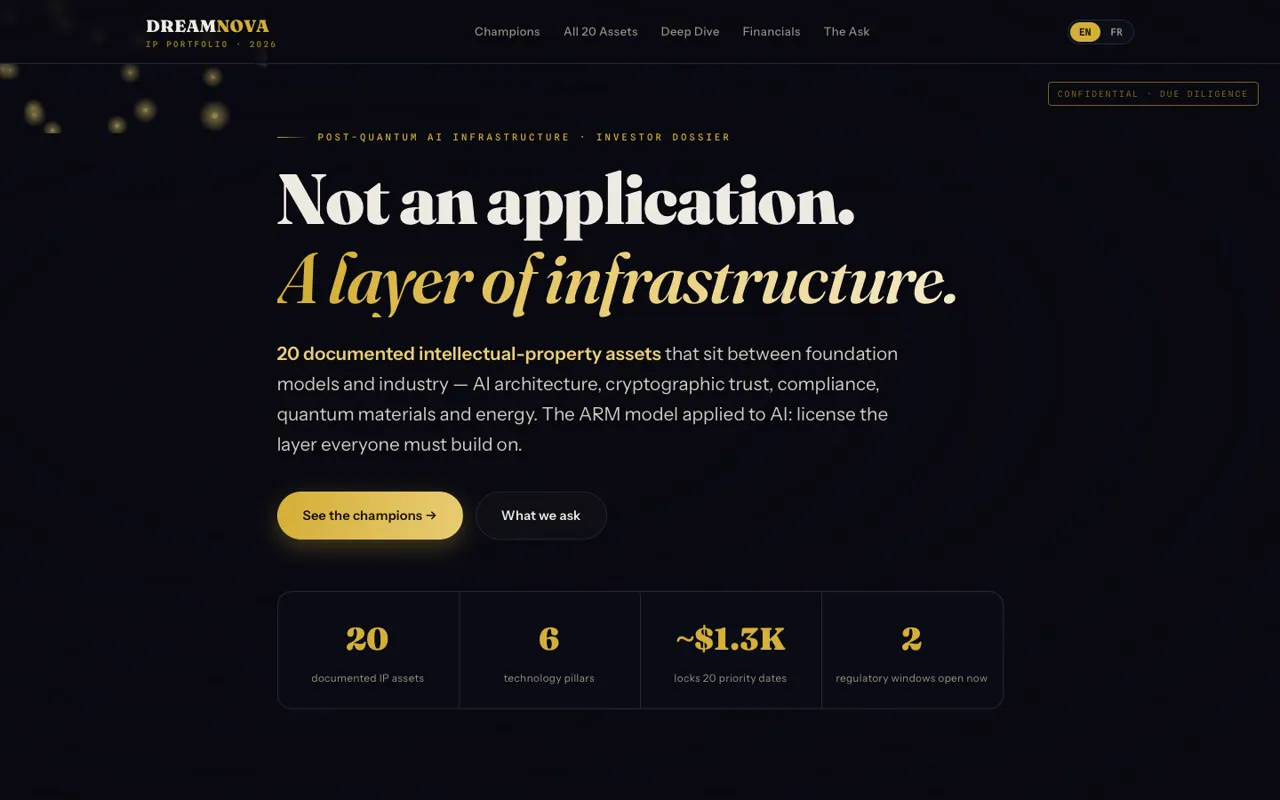
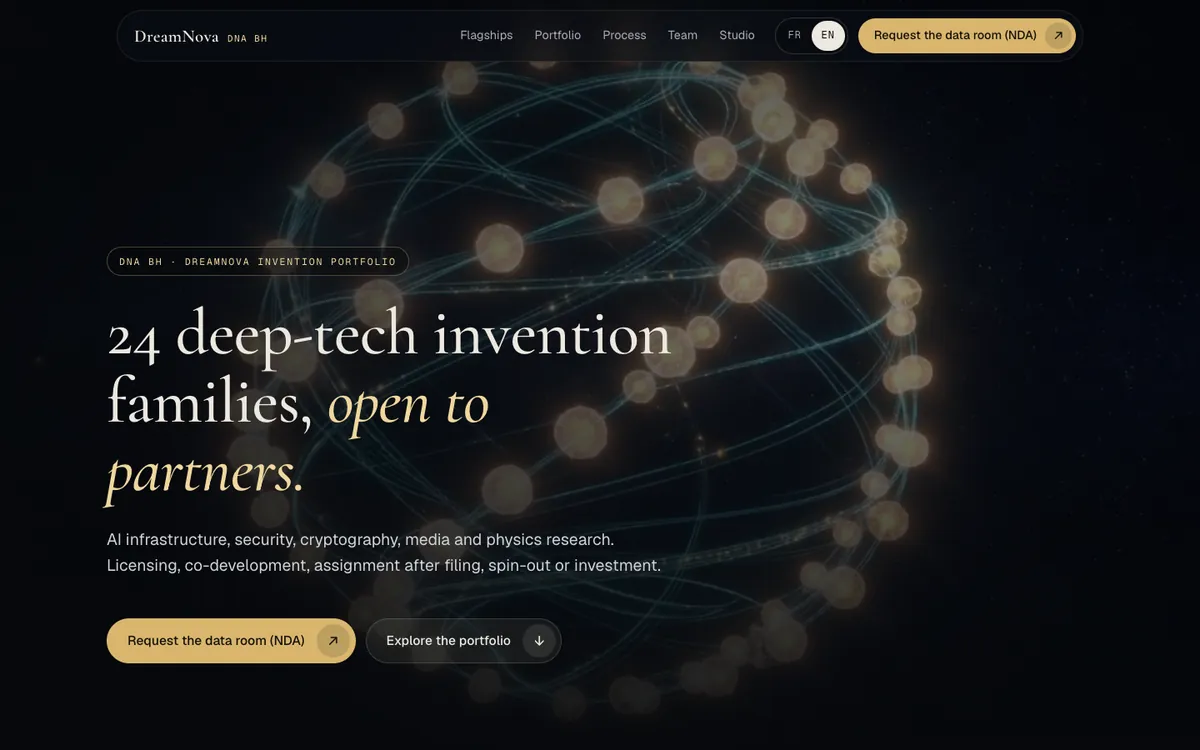
feat(réalisations): 19 fiches classées par impact, résultats prouvés, filtre par service, vignettes 600/1200 webp, 4 nouvelles captures, bouton WhatsApp de section

diff --git a/content.js b/content.js
@@ -100,14 +100,14 @@ DRIVE_I: {
  fr:{eyebrow:"DreamNova · Édition course",l1:"Prenez",l2:"le volant.",sub:"Entrez dans le cockpit. Chaque bouton, chaque écran, chaque rapport mène à l'un de nos services.",hint:"Faites défiler pour entrer",tap:"Entrer"}
 },
 SVC: [
- {id:"film",hot:"paddle_left",w:["media"],films:["cinema_pipeline_01","animation_pipeline_02","subtitled_pipeline_03","bijoux_pipeline_04","adcreative_pipeline_05"],o:[6,10],v:"rooms_v2/room_02_cinema.mp4",part:{he:"מנוף העברה שמאלי",en:"Left paddle",fr:"Palette gauche"}},
- {id:"web",hot:"screen",w:["lumen","artisans","site3d","joaillerie"],o:[0,1,3],v:"rooms_v2/room_03_web.mp4",part:{he:"מסך מרכזי",en:"Center screen",fr:"Écran central"}},
- {id:"crm",hot:"selector",w:["devis","leadmachine","facturation"],o:[13,9],v:"car/cockpit.mp4",part:{he:"ידית ההילוכים",en:"Gear selector",fr:"Levier de vitesse"}},
+ {id:"film",hot:"paddle_left",w:["memorial","joaillerie"],films:["cinema_pipeline_01","animation_pipeline_02","subtitled_pipeline_03","bijoux_pipeline_04","adcreative_pipeline_05"],o:[6,10],v:"rooms_v2/room_02_cinema.mp4",part:{he:"מנוף העברה שמאלי",en:"Left paddle",fr:"Palette gauche"}},
+ {id:"web",hot:"screen",w:["site3d","lumen","artisans","cahiers","joaillerie","editions"],o:[0,1,3],v:"rooms_v2/room_03_web.mp4",part:{he:"מסך מרכזי",en:"Center screen",fr:"Écran central"}},
+ {id:"crm",hot:"selector",w:["leadmachine","facturation","stockvox"],o:[13,9],v:"car/cockpit.mp4",part:{he:"ידית ההילוכים",en:"Gear selector",fr:"Levier de vitesse"}},
  {id:"agents",hot:"wheel",w:["voiceava","stockvox","leadmachine","pinkas"],o:[5,7],v:"rooms_v2/room_04_agents.mp4",part:{he:"הגה",en:"Steering wheel",fr:"Volant"}},
- {id:"marketing",hot:"cluster",w:["media","academy"],o:[14,11,12],v:"rooms_v2/room_06_marketing.mp4",part:{he:"לוח המחוונים",en:"Dashboard gauges",fr:"Compteurs"}},
- {id:"private",hot:"ambient",w:["onprem","pilote","pinkas","mehadrin"],o:[4,8],v:"rooms_v2/room_05_vault.mp4",part:{he:"לוח המכשירים",en:"Dashboard",fr:"Planche de bord"}},
- {id:"3d",hot:"paddle_right",w:["site3d","dreamai","rd"],o:[2],v:"rooms_v2/room_07_gallery.mp4",part:{he:"מנוף העברה ימני",en:"Right paddle",fr:"Palette droite"}},
- {id:"consult",hot:"start",w:["nekuda","auditprivee","auditflash","diagnostic","academy","consult"],o:[16,17,15],v:"rooms_v2/room_01_hero.mp4",part:{he:"כפתור ההתנעה",en:"Start button",fr:"Bouton start"}}
+ {id:"marketing",hot:"cluster",w:["reseau","leadmachine","voiceava"],o:[14,11,12],v:"rooms_v2/room_06_marketing.mp4",part:{he:"לוח המחוונים",en:"Dashboard gauges",fr:"Compteurs"}},
+ {id:"private",hot:"ambient",w:["onprem","pilote","pinkas","mehadrin","rd"],o:[4,8],v:"rooms_v2/room_05_vault.mp4",part:{he:"לוח המכשירים",en:"Dashboard",fr:"Planche de bord"}},
+ {id:"3d",hot:"paddle_right",w:["site3d","cahiers","rd"],o:[2],v:"rooms_v2/room_07_gallery.mp4",part:{he:"מנוף העברה ימני",en:"Right paddle",fr:"Palette droite"}},
+ {id:"consult",hot:"start",w:["diagnostic","auditprivee","facturation"],o:[16,17,15],v:"rooms_v2/room_01_hero.mp4",part:{he:"כפתור ההתנעה",en:"Start button",fr:"Bouton start"}}
 ],
 SVC_I: {
  he:{back:"חזרה לתא הנהג",works:"עבודות קשורות",offers:"הצעות",next:"ההילוך הבא",cta:"לדבר על הפרויקט",spec:"מפרט"},
@@ -167,33 +167,27 @@ REEL: [
  {p:"site3d"}
 ],
 
-/* u:null = pas de lien public (nom du client dans l'adresse) ; only:"he" = carte hébreu seulement */
+/* u:null = pas de lien public (nom du client dans l'adresse) ; only:"he" = carte hébreu seulement ; r = résultat prouvé ; ordre = impact (phase B 20/10) */
 WORKS: [
+ {id:"site3d",c:"web",u:"https://dreamnova-3d-{l}.vercel.app",s:{he:"WebGL",en:"WebGL",fr:"WebGL"},t:{he:"אתר תלת־ממד סוחף",en:"Immersive 3D Site",fr:"Site Immersif 3D"},r:{he:"3 שפות · 3 אתרים חיים",en:"3 languages, 3 live sites — WebGL in the browser",fr:"3 langues, 3 sites en ligne — WebGL dans le navigateur"}},
+ {id:"voiceava",c:"ai",u:"https://dreamnova-voice-demo.vercel.app",s:{he:"סוכן קולי 24/7",en:"Voice agent 24/7",fr:"Agent vocal 24/7"},t:{he:"Ava — פקידת קבלה AI",en:"Ava — AI Receptionist",fr:"Ava — Réceptionniste IA"},r:{he:"דמו חי — מדברים איתה מהדפדפן",en:"Live demo — talk to it from your browser",fr:"Démo en direct — parlez-lui depuis le navigateur"}},
+ {id:"memorial",c:"video",demo:"en",u:"https://dreamnova-memorial-films.vercel.app",s:{he:"סרט AI",en:"AI film",fr:"Film IA"},t:{he:"סרטי זיכרון AI — פנים אמיתיות",en:"AI Memorial Films — Real Faces, Verified",fr:"Films mémoriels IA — visages vérifiés"},r:{he:"סרט ביוגרפי של 60 דקות · 240 שוטים נבדקו אחד־אחד",en:"60-minute biographical film — 240/240 shots checked one by one",fr:"Film biographique de 60 min — 240/240 plans vérifiés un par un"}},
  {id:"joaillerie",c:"web",u:null,s:{he:"מסחר אלקטרוני",en:"E‑commerce",fr:"E‑commerce"},t:{he:"מותג — תכשיטי יוקרה",en:"Maison — Fine Jewelry",fr:"Maison — Haute Joaillerie"}},
- {id:"voiceava",c:"ai",u:"https://dreamnova-voice-demo.vercel.app",s:{he:"סוכן קולי 24/7",en:"Voice agent 24/7",fr:"Agent vocal 24/7"},t:{he:"Ava — פקידת קבלה AI",en:"Ava — AI Receptionist",fr:"Ava — Réceptionniste IA"}},
- {id:"editions",c:"web",u:null,only:"he",s:{he:"הוצאה לאור",en:"",fr:""},t:{he:"חנות ספרים — מהדורה חדשה",en:"",fr:""}},
  {id:"onprem",c:"deep",u:"https://dreamnova-onprem.vercel.app",s:{he:"דיפ־טק פרטי",en:"Private deep-tech",fr:"Deep-tech privé"},t:{he:"AI פרטי On-Premise",en:"Private On-Premise AI",fr:"IA Privée On-Premise"}},
  {id:"pilote",c:"ai",demo:"fr",u:"https://dreamnova-pilote.vercel.app",s:{he:"RAG פרטי",en:"Private RAG",fr:"RAG privé"},t:{he:"פיילוט AI — משרדים",en:"AI Pilot — Firms",fr:"Pilote IA — Cabinets"}},
- {id:"auditariel",c:"audit",u:null,s:{he:"תיק לקוח אמיתי",en:"Real client dossier",fr:"Dossier client réel"},t:{he:"אודיט AI ותאימות AI Act",en:"AI Act Compliance Audit",fr:"Audit IA & Conformité AI Act"}},
- {id:"auditprivee",c:"audit",demo:"fr",u:"https://audit-ia-privee.vercel.app",s:{he:"אודיט",en:"Audit",fr:"Audit"},t:{he:"אודיט AI פרטי וריבוני",en:"Private & Sovereign AI Audit",fr:"Audit IA Privée & Souveraine"}},
- {id:"auditflash",c:"audit",demo:"fr",u:"https://audit-flash-ia-beige.vercel.app",s:{he:"אודיט",en:"Audit",fr:"Audit"},t:{he:"אודיט בזק — AI Act",en:"Flash Audit — AI Act",fr:"Audit Flash — AI Act"}},
- {id:"facturation",c:"audit",demo:"fr",u:"https://dreamnova-facturation.vercel.app",s:{he:"אודיט תאימות",en:"Compliance audit",fr:"Audit conformité"},t:{he:"מוכנות לחשבונית דיגיטלית 2026",en:"E-Invoicing Readiness 2026",fr:"Facturation Électronique 2026"}},
- {id:"diagnostic",c:"audit",u:"https://diagnostic-ia-israel.vercel.app",s:{he:"אודיט",en:"Audit",fr:"Audit"},t:{he:"אבחון AI — ישראל",en:"AI Diagnostic — Israel",fr:"Diagnostic IA — Israël"}},
+ {id:"rd",c:"deep",u:"https://dreamnova-brevets.vercel.app",s:{he:"דיפ־טק",en:"Deep-tech",fr:"Deep-tech"},t:{he:"מו״פ — תיק IP",en:"R&D — IP Dossier",fr:"R&D — Dossier IP"},r:{he:"24 משפחות המצאות · תקציר לא חסוי",en:"24 invention families — non-confidential summary",fr:"24 familles d'inventions — résumé non confidentiel"}},
+ {id:"artisans",c:"web",demo:"fr",u:"https://demos-artisans.vercel.app",s:{he:"גנרטור",en:"Generator",fr:"Générateur"},t:{he:"מפעל אתרים — בעלי מקצוע",en:"Site Factory — Trades",fr:"Usine à Sites — Métiers"},r:{he:"20 אתרים לבעלי מקצוע",en:"20 trade websites generated",fr:"20 sites de métiers générés"}},
  {id:"stockvox",c:"ai",u:"https://stockvox.vercel.app",s:{he:"סוכן קולי",en:"Voice agent",fr:"Agent vocal"},t:{he:"Stockvox — המלאי שמדבר",en:"Stockvox — Inventory That Talks",fr:"Stockvox — L'inventaire qui se parle"}},
- {id:"devis",c:"web",u:"https://dreamnova-devis.vercel.app",s:{he:"מוצר ווב",en:"Web product",fr:"Produit web"},t:{he:"SaaS — הצעת מחיר מדויקת",en:"SaaS — Exact Quotes",fr:"SaaS — Devis Exact"}},
  {id:"leadmachine",c:"ai",u:"https://leadmachine-site.vercel.app",s:{he:"צמיחה B2B",en:"B2B growth",fr:"Growth B2B"},t:{he:"מכונת פרוספקטינג פרטית",en:"Private Prospecting Machine",fr:"Machine de Prospection Privée"}},
  {id:"pinkas",c:"ai",u:"https://pinkas-ai.vercel.app",s:{he:"מוצר local-first",en:"Local-first product",fr:"Produit local-first"},t:{he:"פנקס — זיכרון וואטסאפ",en:"Pinkas — WhatsApp Memory",fr:"Pinkas — Mémoire WhatsApp"}},
- {id:"dreamai",c:"deep",u:"https://dreamai-mvp.vercel.app",s:{he:"דיפ־טק · פטנט",en:"Deep-tech · patent",fr:"Deep-tech · brevet"},t:{he:"DreamAI — מו״פ מוצר",en:"DreamAI — Product R&D",fr:"DreamAI — R&D Produit"}},
- {id:"mehadrin",c:"ai",u:"https://mehadrin-ai.vercel.app",only:"he",s:{he:"מוצר",en:"",fr:""},t:{he:"MEHADRIN AI — הבינה הכשרה",en:"",fr:""}},
+ {id:"cahiers",c:"web",u:null,s:{he:"הדמיה · תלת־ממד",en:"Concept · 3D showroom",fr:"Maquette · salon 3D"},t:{he:"מגזין מקצועי — אולם תצוגה תלת־ממדי",en:"Trade Magazine — Virtual 3D Showroom",fr:"Revue professionnelle — Salon virtuel 3D"}},
+ {id:"reseau",c:"ai",demo:"he",u:"https://reseau-contenu-demo.vercel.app",s:{he:"אב־טיפוס חי",en:"Live prototype",fr:"Prototype en ligne"},t:{he:"הפיד החכם שלך",en:"Smart Content Network",fr:"Réseau de contenu intelligent"}},
  {id:"lumen",c:"web",demo:"fr",u:"https://maison-lumen-demo.vercel.app",s:{he:"איקומרס",en:"E‑commerce demo",fr:"E‑commerce démo"},t:{he:"Maison Lumen — חנות דמו",en:"Maison Lumen — Store",fr:"Maison Lumen — Boutique"}},
- {id:"academy",c:"audit",u:"https://dreamnova-academy.vercel.app",s:{he:"הדרכה",en:"Education",fr:"Formation"},t:{he:"אקדמיית AI",en:"AI Academy",fr:"Academy IA"}},
- {id:"media",c:"video",u:null,s:{he:"תיק וידאו",en:"Video portfolio",fr:"Portfolio vidéo"},t:{he:"מותג — ספריית מדיה",en:"Maison — Media Library",fr:"Maison — Médiathèque"}},
- {id:"artisans",c:"web",demo:"fr",u:"https://demos-artisans.vercel.app",s:{he:"גנרטור",en:"Generator",fr:"Générateur"},t:{he:"מפעל אתרים — בעלי מקצוע",en:"Site Factory — Trades",fr:"Usine à Sites — Métiers"}},
- {id:"consult",c:"audit",u:"https://dreamnova-consult-prod.vercel.app",s:{he:"ייעוץ",en:"Consulting",fr:"Conseil"},t:{he:"סוכנות AI — השיטה",en:"AI Agency — The Method",fr:"Agence IA — La Méthode"}},
- {id:"edtech",c:"web",u:null,s:{he:"משחק חינוכי",en:"Educational game",fr:"Jeu éducatif"},t:{he:"EdTech — משחק לוגיקה",en:"EdTech — Logic Game",fr:"EdTech — Jeu Logique"}},
- {id:"site3d",c:"web",u:"https://dreamnova-3d-{l}.vercel.app",s:{he:"WebGL",en:"WebGL",fr:"WebGL"},t:{he:"אתר תלת־ממד סוחף",en:"Immersive 3D Site",fr:"Site Immersif 3D"}},
- {id:"nekuda",c:"web",u:null,s:{he:"קורס דיגיטלי",en:"Online course",fr:"Cours en ligne"},t:{he:"אקדמיה אונליין — קורס בעברית עם סרט",en:"Online Academy — Hebrew course with film",fr:"Académie en ligne — cours en hébreu avec film"}},
- {id:"rd",c:"deep",u:"https://dreamnova-inventions-investisseurs.vercel.app",s:{he:"דיפ־טק",en:"Deep-tech",fr:"Deep-tech"},t:{he:"מו״פ — תיק IP",en:"R&D — IP Dossier",fr:"R&D — Dossier IP"}}
+ {id:"diagnostic",c:"audit",u:"https://diagnostic-ia-israel.vercel.app",s:{he:"אודיט",en:"Audit",fr:"Audit"},t:{he:"אבחון AI — ישראל",en:"AI Diagnostic — Israel",fr:"Diagnostic IA — Israël"}},
+ {id:"facturation",c:"audit",demo:"fr",u:"https://dreamnova-facturation.vercel.app",s:{he:"אודיט תאימות",en:"Compliance audit",fr:"Audit conformité"},t:{he:"מוכנות לחשבונית דיגיטלית 2026",en:"E-Invoicing Readiness 2026",fr:"Facturation Électronique 2026"}},
+ {id:"auditprivee",c:"audit",demo:"fr",u:"https://audit-ia-privee.vercel.app",s:{he:"אודיט",en:"Audit",fr:"Audit"},t:{he:"אודיט AI פרטי וריבוני",en:"Private & Sovereign AI Audit",fr:"Audit IA Privée & Souveraine"}},
+ {id:"editions",c:"web",u:null,only:"he",s:{he:"הוצאה לאור",en:"",fr:""},t:{he:"חנות ספרים — מהדורה חדשה",en:"",fr:""}},
+ {id:"mehadrin",c:"ai",u:"https://mehadrin-ai.vercel.app",only:"he",s:{he:"מוצר",en:"",fr:""},t:{he:"MEHADRIN AI — הבינה הכשרה",en:"",fr:""}}
 ],
 
 FILTERS: {

diff --git a/app.js b/app.js
@@ -30,11 +30,12 @@ const stack = D.STACK.map(s => `<span>${s}</span>`).join("");
 $("[data-marquee]").innerHTML = stack + stack;
 
 /* ---------- reel ---------- */
-const HE_FIRST = ["consult", "pinkas", "mehadrin", "editions", "diagnostic", "voiceava", "site3d"];
+const HE_FIRST = ["site3d", "voiceava", "editions", "mehadrin", "diagnostic", "pinkas", "reseau"];
 const works = D.WORKS.filter(w => !w.only || w.only === L).sort((a, b) => L !== "he" ? 0 : (HE_FIRST.indexOf(b.id) > -1) - (HE_FIRST.indexOf(a.id) > -1));
 const byId = Object.fromEntries(works.map(w => [w.id, w]));
 const url = w => w.u && w.u.replace("{l}", L);
-const gal = w => `${BASE}assets/work/gal_${w.id}${w.id === "site3d" ? "_" + L : ""}.webp`; // vignette dans la langue de la page
+const gal = (w, sm) => `${BASE}assets/work/gal_${w.id}${w.id === "site3d" ? "_" + L : ""}${sm ? "_s" : ""}.webp`; // vignette dans la langue de la page (sm = 600 px)
+const svcOf = w => D.SVC.filter(s => s.w.includes(w.id)).map(s => s.id).join(" ");
 let n = 0;
 const reelCards = D.REEL.map(r => {
   if (r.v) {
@@ -88,9 +89,9 @@ const flo = document.createElement("div"); flo.className = "pj__float"; flo.inne
 addEventListener("pointermove", e => { flo.style.left = e.clientX + "px"; flo.style.top = e.clientY + "px"; }, { passive: true });
 $("[data-index]").innerHTML = works.map(w => {
   const u = url(w);
-  return `<${u ? "a" : "div"} class="pj ${u ? "" : "pj--private"}" data-c="${w.c}" ${u ? `href="${u}" target="_blank" rel="noopener"` : ""}>
-    <img class="pj__img" src="${gal(w)}" alt="${esc(w.t[L])}" loading="lazy" decoding="async">
-    <div class="pj__b"><div><div class="pj__s">${esc(w.s[L])}${w.demo && w.demo !== L ? ` <span class="pj__lang">${w.demo.toUpperCase()}</span>` : ""}</div><div class="pj__t">${esc(w.t[L])}</div></div><span class="pj__a">${esc(u ? T["work.visit"].replace("↗", ARROW) : T["work.private"])}</span></div></${u ? "a" : "div"}>`;
+  return `<${u ? "a" : "div"} class="pj ${u ? "" : "pj--private"}" data-sv="${svcOf(w)}" ${u ? `href="${u}" target="_blank" rel="noopener"` : ""}>
+    <img class="pj__img" src="${gal(w)}" srcset="${gal(w, 1)} 600w, ${gal(w)} 1200w" sizes="(max-width: 767px) 120px, 340px" width="1200" height="750" alt="${esc(w.t[L])}" loading="lazy" decoding="async">
+    <div class="pj__b"><div><div class="pj__s">${esc(w.s[L])}${w.demo && w.demo !== L ? ` <span class="pj__lang">${w.demo.toUpperCase()}</span>` : ""}</div><div class="pj__t">${esc(w.t[L])}</div>${w.r ? `<div class="pj__r">${esc(w.r[L])}</div>` : ""}</div><span class="pj__a">${esc(u ? T["work.visit"].replace("↗", ARROW) : T["work.private"])}</span></div></${u ? "a" : "div"}>`;
 }).join("");
 $("[data-index]").addEventListener("pointerover", e => { const p = e.target.closest(".pj"); if (!p) return flo.classList.remove("is-on"); flo.querySelector("img").src = p.querySelector(".pj__img").src; flo.classList.toggle("is-fr", !!p.querySelector(".pj__lang")); flo.classList.add("is-on"); });
 $("[data-index]").addEventListener("pointerleave", () => flo.classList.remove("is-on"));
@@ -98,11 +99,17 @@ $("[data-index]").addEventListener("pointerleave", () => flo.classList.remove("i
     const b = document.createElement("button"); b.type = "button"; b.className = "btn btn--glass index__more"; b.innerHTML = `<span>${esc({ he: "לכל העבודות", en: "See all work", fr: "Tout voir" }[L])} (${rows.length})</span><span class="btn__ico">+</span>`;
     b.onclick = () => { $("[data-index]").classList.add("is-open"); b.remove(); window.ScrollTrigger && ScrollTrigger.refresh(); }; $("[data-index]").after(b); } }
 const fb = $("[data-filters]");
-fb.innerHTML = D.FILTERS[L].map(([k, v], i) => `<button type="button" data-f="${k}" class="${i ? "" : "is-on"}" aria-pressed="${!i}">${esc(v)}</button>`).join("");
+// filtre par service (mêmes intitulés que les services ; un service sans réalisation dans la langue n'apparaît pas)
+fb.innerHTML = [["all", D.FILTERS[L][0][1]], ...D.SVC.map((s, i) => [s.id, D.SERVICES[i][L][0]])]
+  .filter(([k]) => k === "all" || works.some(w => svcOf(w).split(" ").includes(k)))
+  .map(([k, v], i) => `<button type="button" data-f="${k}" class="${i ? "" : "is-on"}" aria-pressed="${!i}">${esc(v)}</button>`).join("");
 fb.addEventListener("click", e => {
   const b = e.target.closest("button"); if (!b) return;
   $$("button", fb).forEach(x => { x.classList.toggle("is-on", x === b); x.setAttribute("aria-pressed", x === b); });
-  $$(".pj").forEach(p => p.classList.toggle("is-out", b.dataset.f !== "all" && p.dataset.c !== b.dataset.f));
+  const f = b.dataset.f, grid = $("[data-index]");
+  if (f !== "all") { grid.classList.add("is-open"); $(".index__more")?.remove(); } // un filtre montre toutes ses réalisations
+  const shown = $$(".pj", grid).filter(p => { const on = f === "all" || p.dataset.sv.split(" ").includes(f); p.classList.toggle("is-out", !on); return on; });
+  window.gsap && gsap.fromTo(shown, { opacity: 0, y: 14 }, { opacity: 1, y: 0, duration: .45, stagger: .035, ease: "power2.out", clearProps: "transform,opacity" });
   window.ScrollTrigger && ScrollTrigger.refresh();
 });
 

diff --git a/svc.js b/svc.js
@@ -35,7 +35,7 @@
     <ol class="spec">${sv[2].map((c, k) => `<li class="r"><span>${String(k + 1).padStart(2, "0")}</span><b>${esc(c)}</b></li>`).join("")}</ol></section>
   ${works.length ? `<section class="svc-works"><p class="eyebrow">${esc(U.works)}</p><div class="index__grid">${works.map(w => {
     const u = w.u && w.u.replace("{l}", L);
-    return `<${u ? "a" : "div"} class="pj r" ${u ? `href="${u}" target="_blank" rel="noopener"` : ""}><img class="pj__img" src="${BASE}assets/work/gal_${w.id}${w.id === "site3d" ? "_" + L : ""}.webp"${w.demo && w.demo !== L ? ` data-demo="${w.demo}"` : ""} alt="${esc(w.t[L])}" loading="lazy"><div class="pj__b"><div><div class="pj__s">${esc(w.s[L])}</div><div class="pj__t">${esc(w.t[L])}</div></div><span class="pj__a">${esc(u ? T["work.visit"].replace("↗", ARROW) : T["work.private"])}</span></div></${u ? "a" : "div"}>`;
+    return `<${u ? "a" : "div"} class="pj r" ${u ? `href="${u}" target="_blank" rel="noopener"` : ""}><img class="pj__img" src="${BASE}assets/work/gal_${w.id}${w.id === "site3d" ? "_" + L : ""}_s.webp"${w.demo && w.demo !== L ? ` data-demo="${w.demo}"` : ""} width="600" height="375" alt="${esc(w.t[L])}" loading="lazy"><div class="pj__b"><div><div class="pj__s">${esc(w.s[L])}${w.demo && w.demo !== L ? ` <span class="pj__lang">${w.demo.toUpperCase()}</span>` : ""}</div><div class="pj__t">${esc(w.t[L])}</div>${w.r ? `<div class="pj__r">${esc(w.r[L])}</div>` : ""}</div><span class="pj__a">${esc(u ? T["work.visit"].replace("↗", ARROW) : T["work.private"])}</span></div></${u ? "a" : "div"}>`;
   }).join("")}</div></section>` : ""}
   ${!s.films ? `<section class="svc-visual"><video data-src="${vid2}" muted loop playsinline preload="none"></video></section>` : ""}
   ${(() => { const B = D.BUILD && D.BUILD[id] && D.BUILD[id][L]; if (!B) return "";

diff --git a/style.css b/style.css
@@ -1059,3 +1059,18 @@ body:has(.cp-panel.is-open) .gear,body.no-fab .gear,body.svc-open .gear{opacity:
 .foot a[href="#top"]{min-width:44px;justify-content:center}
 /* dans le cockpit sur téléphone, le ⚙ monte sous la barre : il ne cache plus les boutons de service du bas */
 @media (max-width:767px){body.in-cockpit .gear{bottom:auto;top:84px}}
+/* phase B : fiches riches (résultat prouvé), vignette sur téléphone, filtre par service défilant */
+.pj__r{margin-top:6px;font-size:14.5px;line-height:1.4;color:var(--mute)}
+.index .filters{max-width:100%}
+@media (max-width:767px){
+  .index .filters{flex-wrap:nowrap;overflow-x:auto;scrollbar-width:none;margin-inline:-20px;padding-inline:20px;-webkit-mask-image:linear-gradient(90deg,transparent,#000 16px,#000 calc(100% - 24px),transparent)}
+  .index .filters::-webkit-scrollbar{display:none}
+  .index .filters button{flex:0 0 auto;white-space:nowrap}
+  .index__grid .pj{grid-template-columns:104px 1fr;gap:14px;padding:12px 0}
+  .index__grid .pj .pj__img{display:block;width:104px;aspect-ratio:16/10;height:auto;border-radius:10px;object-fit:cover;object-position:top}
+  .index__grid .pj__b{padding:0;flex-direction:column;gap:6px}
+  .index__grid .pj__t{font-size:19px}
+  .pj__r{font-size:15px}
+}
+.index__grid .pj.is-out{display:none!important}
+.index__cta{margin-top:28px;display:flex;justify-content:center}

diff --git a/he/index.html b/he/index.html
@@ -157,6 +157,7 @@
       <div class="filters" role="tablist" data-filters></div>
     </div>
     <div class="index__grid" data-index></div>
+    <div class="index__cta"><a class="btn btn--gold magnetic" data-wa="index" href="#contact"><span data-i="hero.cta2">יש לכם פרויקט?</span><span class="btn__ico">↗</span></a></div>
   </section>
 
   <section class="offers" id="offers">

diff --git a/en/index.html b/en/index.html
@@ -157,6 +157,7 @@
       <div class="filters" role="tablist" data-filters></div>
     </div>
     <div class="index__grid" data-index></div>
+    <div class="index__cta"><a class="btn btn--gold magnetic" data-wa="index" href="#contact"><span data-i="hero.cta2">Got a project?</span><span class="btn__ico">↗</span></a></div>
   </section>
 
   <section class="offers" id="offers">

diff --git a/fr/index.html b/fr/index.html
@@ -157,6 +157,7 @@
       <div class="filters" role="tablist" data-filters></div>
     </div>
     <div class="index__grid" data-index></div>
+    <div class="index__cta"><a class="btn btn--gold magnetic" data-wa="index" href="#contact"><span data-i="hero.cta2">Un projet ?</span><span class="btn__ico">↗</span></a></div>
   </section>
 
   <section class="offers" id="offers">

diff --git a/index.html b/index.html
@@ -154,6 +154,7 @@
       <div class="filters" role="tablist" data-filters></div>
     </div>
     <div class="index__grid" data-index></div>
+    <div class="index__cta"><a class="btn btn--gold magnetic" data-wa="index" href="#contact"><span data-i="hero.cta2"></span><span class="btn__ico">↗</span></a></div>
   </section>
 
   <section class="offers" id="offers">
